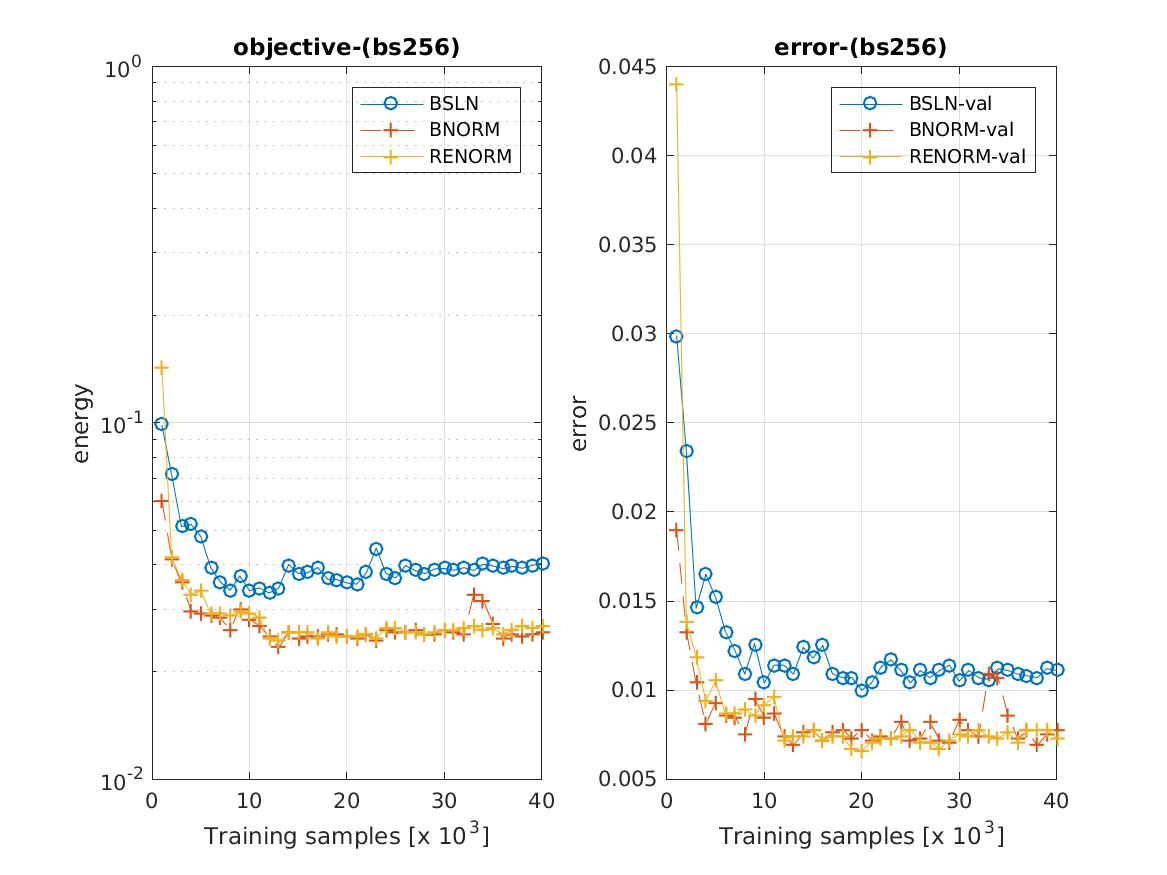
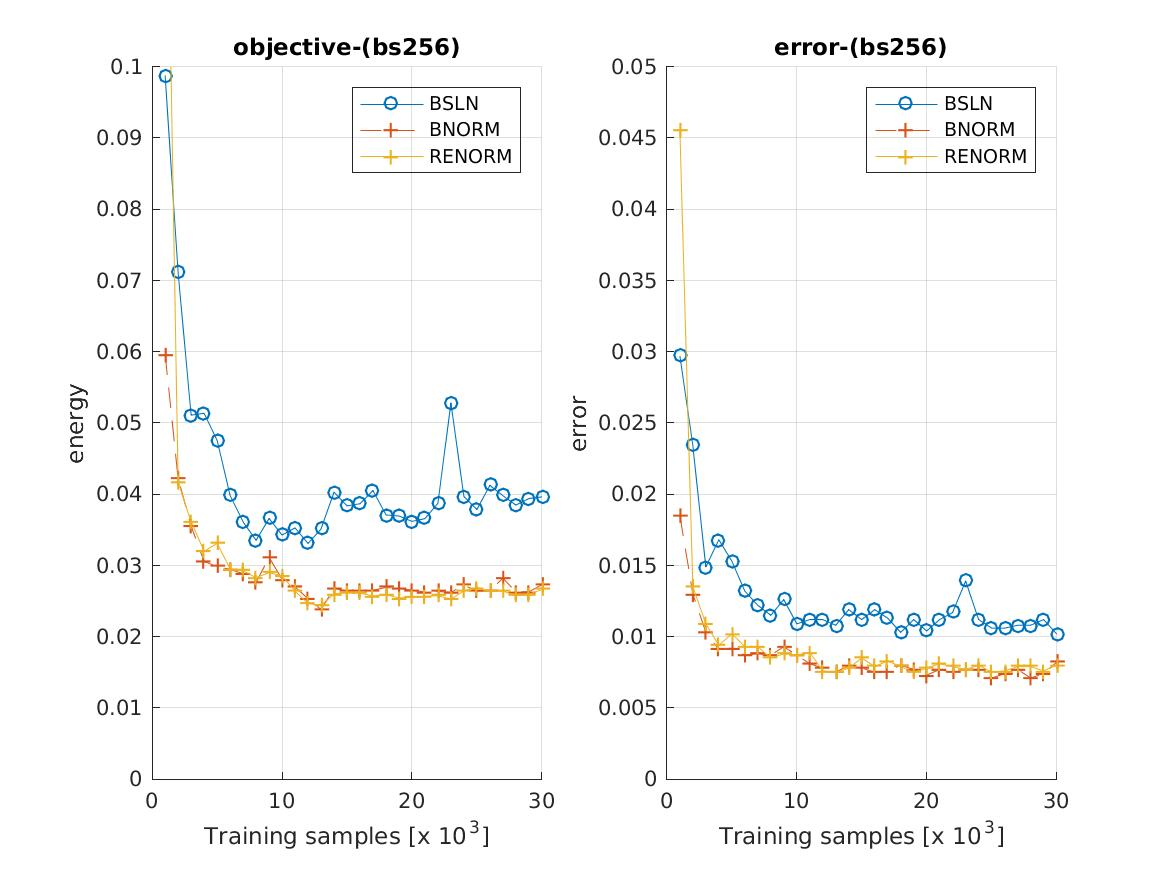
added figures to README

diff --git a/README.md b/README.md
@@ -1,4 +1,4 @@
-## Batch Renormalization
+Batch Renormalization
 
 This module provides some code to experiment with batch renormalization, 
 as described in [this recent arxiv paper](https://arxiv.org/abs/1702.03275).
@@ -12,18 +12,62 @@ vl_contrib('install', 'mcnBReNorm', 'contribUrl', 'github.com/albanie/matconvnet
 vl_contrib('setup', 'mcnBReNorm', 'contribUrl', 'github.com/albanie/matconvnet-contrib-test/') ;
 ```
 
-The example experiments use the [autonn module]() (although this is not required to use the `vl_nnbrenorm` function), which can be installed as follows:
+The example experiments use the [autonn module]() (although this is not 
+required to use the `vl_nnbrenorm` function), which can be installed as follows:
 
 ```
 vl_contrib('install', 'autonn') ;
 vl_contrib('setup', 'autonn') ;
 ```
 
+### Experiments
 
-### Notes
+Our first goal is to verify the first experiment in the paper i.e. that batch 
+renormalization does actively make things worse when we are training with 
+reasonably large batch sizes.  In the experiment below, we train three simple 
+networks - one with no feature normalization, one with batch normalization and 
+one with batch renormalization.  The networks are trained with a batch size 
+of `256`. Batch renormalization uses the parameters recommended by the 
+paper (e.g. an `alpha = 0.01` - see `example/mnist_renorm_experiment1.m` 
+for the details).
 
-The motivation for *batch renormalization* is to fix the issues that batch normalization can exhibit when training with small minibatches (or minibatches which do not consist of independent samples). The proposed solution is quite simple, and resolves the need to change the 
-behaviour of the layer during training and test time.  
+![256-batch](fig/exp1-bs-256.jpg)
+
+Next we drop the batch size to `128`, and we see renormalization hinting at a 
+modest improvement:
+
+![128-batch](fig/exp1-bs-128.jpg)
+
+Dropping the batch size further to `64`, we see this effect repeated, but the 
+advantages of normalizing have also been reduced.
+
+![64-batch](fig/exp1-bs-064.jpg)
+
+We can take this to an extreme by dropping the batch size all the way down 
+to `4`.  At this batch size, the baseline no longer converges with the same 
+learning rate so it is left out of the comparison. This is one of the intended 
+use cases for batch renorm, and it seems to offer some additional stability 
+here:
+
+![4-batch](fig/exp1-bs-004.jpg)
+
+Just as a final note, once the values of `r` and `d` have been relaxed (see 
+below for explanation of notation), batch nenormalization occasionally 
+exhibits slightly pathological behaviour, particularly on small batches when 
+there is a large difference between the statistics of the minibatch and the 
+rest of the training set (see an example of training with a batch size of `32` 
+below).  These could probably be addressed with more a more careful tuning of 
+`alpha` and the learning rates of the network:
+
+![32-batch](fig/exp1-bs-032.jpg)
+
+Notes
+
+The motivation for *batch renormalization* is to fix the issues that batch 
+normalization can exhibit when training with small minibatches (or 
+minibatches which do not consist of independent samples). The proposed 
+solution is quite simple, and resolves the need to change the behaviour of the 
+layer during training and test time.
 
 Recall that to perform 
 [batch normalization](https://arxiv.org/abs/1502.03167), features are normalised 
@@ -42,7 +86,9 @@ where
   sigma_B := minibatch standard deviation
 ```
 
-To perform batch renormalization we make a small modification to this approach by normalizing instead with a mixture of the minibatch statistics *and* a rolling estimate of the feature statistics over many minibatches:
+To perform batch renormalization we make a small modification to this approach 
+by normalizing instead with a mixture of the minibatch statistics *and* a 
+rolling estimate of the feature statistics over many minibatches:
 
 
 ```
@@ -59,7 +105,11 @@ where
   
 ```
 
-The goal of these additional terms is to reduce the dependence of the normalisation on the current minibatch. If `r = 1` and `d = 0`, then batch renormalization simply performs standard batch normalization. In practice, the values of `r` and `d` can jump around quite a lot, particularly near the start of training.  The solution proposed in the paper is to  clip these values:
+The goal of these additional terms is to reduce the dependence of the 
+normalisation on the current minibatch. If `r = 1` and `d = 0`, then batch 
+renormalization simply performs standard batch normalization. In practice, 
+the values of `r` and `d` can jump around quite a lot, particularly near the 
+start of training.  The solution proposed in the paper is to clip these values:
 
 ```
 r := clip( mu_B / sigma, [1/r_max, r_max])
@@ -73,10 +123,5 @@ where
 
 but if you play around with it, you might come up with something better :)
 
-During training, the layer is initialised with `r_max = 1, d_max = 0` (matching standard batch norm). These values are gradually relaxed over time.
-
-### Experiments
-
-Our first goal is to verify the first experiment in the paper i.e. that batch renormalization does actively make things worse when we are training with reasonably large batch sizes.  In the experiment below, we train three simple networks - one with no feature normalization, one with batch normalization and one with batch renormalization.  The networks are trained with a batch size of `256`. Batch renormalization uses the parameters recommended by the paper (e.g. an `alpha = 0.01` - see `example/mnist_renorm_experiment1.m` for the details).
-
-![256-batch](fig/exp1-bs-256.jpg)
+During training, the layer is initialised with `r_max = 1, d_max = 0` 
+(matching standard batch norm). These values are gradually relaxed over time.
